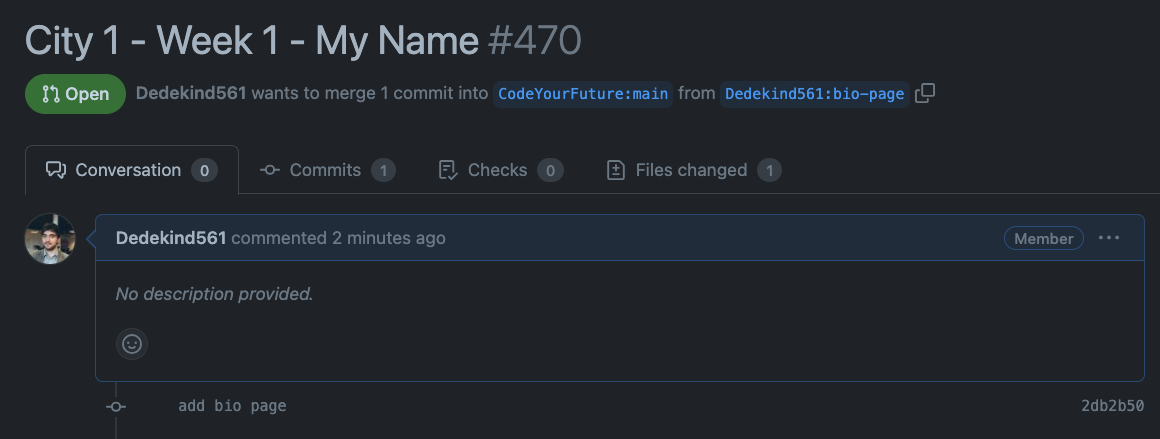
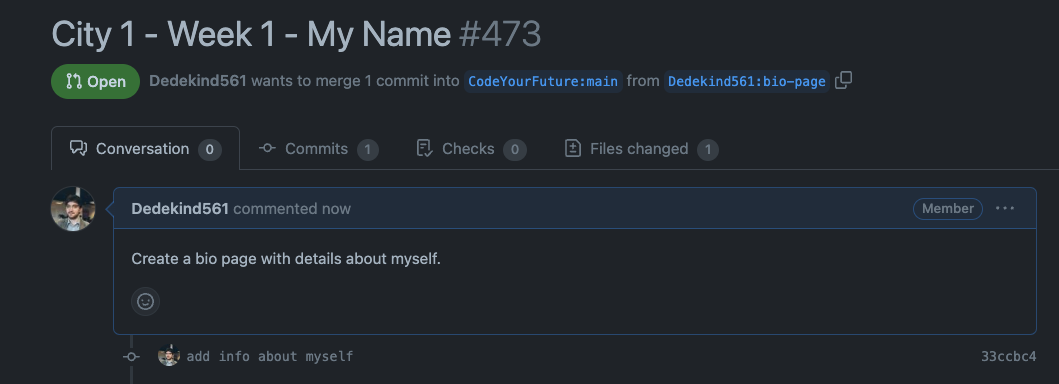
refer to description in pr guide

diff --git a/content/guides/create-a-pull-request/index.md b/content/guides/create-a-pull-request/index.md
@@ -122,11 +122,29 @@ Update the Pull Request title to include your **region**, **name** and the week 
 
 ### Step 7
 
+Update the Pull Request description with information about the changes on your branch.
+
+Below we've added a description "Create a bio page with details about myself"
+
+![update-pr-title](update-pr-title-description.png)
+
+### Step 8
+
 Finally, click on **Create pull request**.
 
 Double check you end up with a pull request like this:
 
 ![new-pr-landing-page](new-pr-landing-page.png)
+
+## Using a Pull Request template
+
+Often you can create a new pull request using a **template**.
+
+Check the description field for any instructions to complete the pull request.
+
+Check out the example below:
+
+![update-pr-using-template](update-pr-using-template.png)
 
 #### Questions
 
